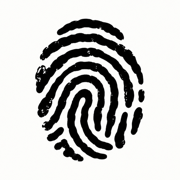
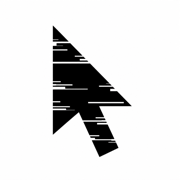
adding site images/branding

Changed region(s): [[0.1944, 0.0833, 0.8056, 0.9167]]

diff --git a/README.md b/README.md
@@ -1,6 +1,6 @@
 # who touched this
 
-one website, one contributor at a time.
+one website. one contributor at a time.
 
 take your turn, make a change, & become part of its history.
 
